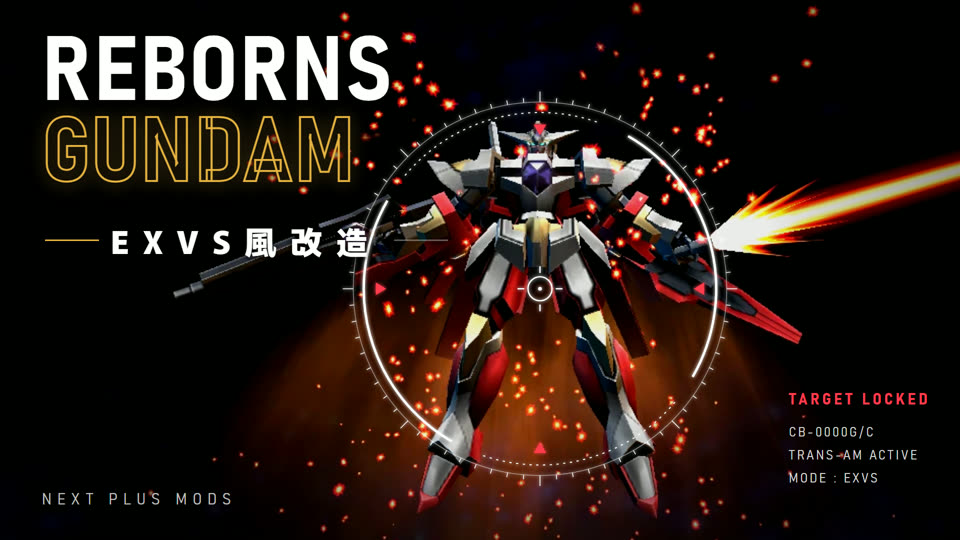
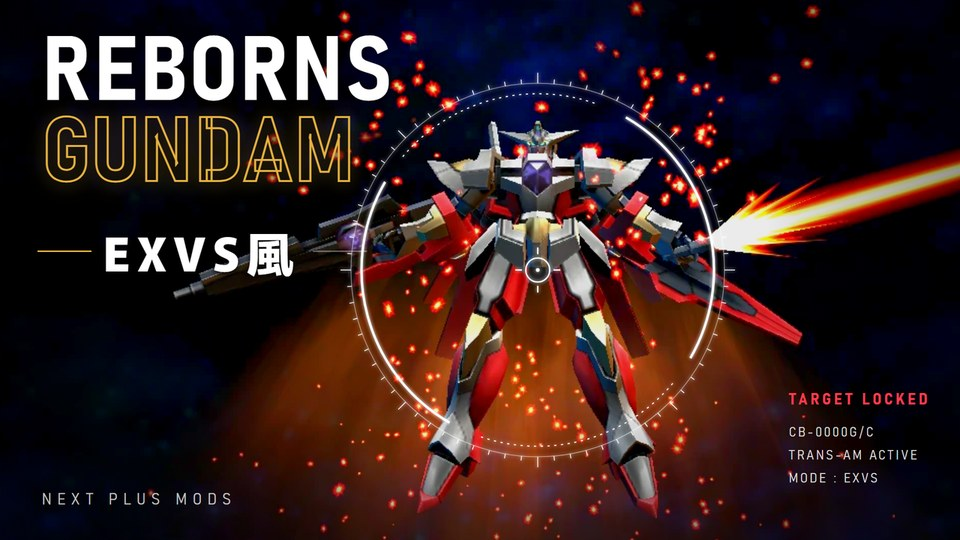
Update hero images to the current video thumbnails (EXVS風) and alt texts

diff --git a/index.html b/index.html
@@ -91,7 +91,7 @@
   </header>
 
   <section class="card" id="reborns">
-    <img class="hero" src="reborns.jpg" alt="リボーンズガンダム（EXVS風改造）" data-i18n-alt="altReborns" width="960" height="540">
+    <img class="hero" src="reborns.jpg" alt="リボーンズガンダム（EXVS風）" data-i18n-alt="altReborns" width="960" height="540">
     <div class="body">
       <p class="game" data-i18n="game">機動戦士ガンダム ガンダムVS.ガンダムNEXT PLUS（NPJH50107）</p>
       <h2 data-i18n="reborns">エクバ風リボーンズガンダム</h2>
@@ -104,7 +104,7 @@
   </section>
 
   <section class="card" id="nu">
-    <img class="hero" src="nu.jpg" alt="νガンダム（EXVS風改造）" data-i18n-alt="altNu" width="960" height="540" loading="lazy">
+    <img class="hero" src="nu.jpg" alt="νガンダム（EXVS風）" data-i18n-alt="altNu" width="960" height="540" loading="lazy">
     <div class="body">
       <p class="game" data-i18n="game">機動戦士ガンダム ガンダムVS.ガンダムNEXT PLUS（NPJH50107）</p>
       <h2 data-i18n="nu">エクバ風νガンダム</h2>
@@ -160,8 +160,8 @@
       note2: 'The game itself is not distributed here',
       note3: 'These are unofficial codes and are not affiliated with the developer, publisher, or any rights holders',
       youtube: 'YouTube: NEXT PLUS Mods',
-      altReborns: 'Reborns Gundam (EXVS-style mod)',
-      altNu: 'Nu Gundam (EXVS-style mod)'
+      altReborns: 'Reborns Gundam (EXVS-style)',
+      altNu: 'Nu Gundam (EXVS-style)'
     };
     var JA = {};
     var texts = document.querySelectorAll('[data-i18n]');
